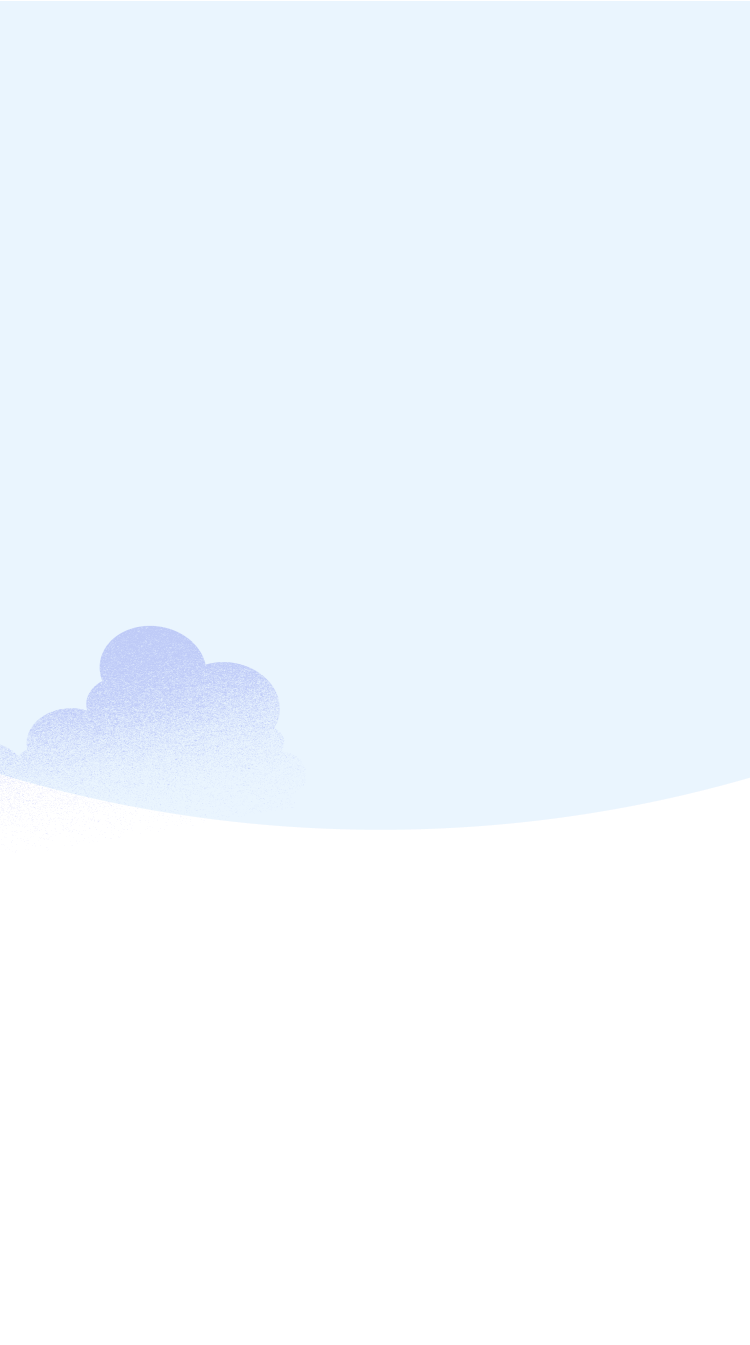
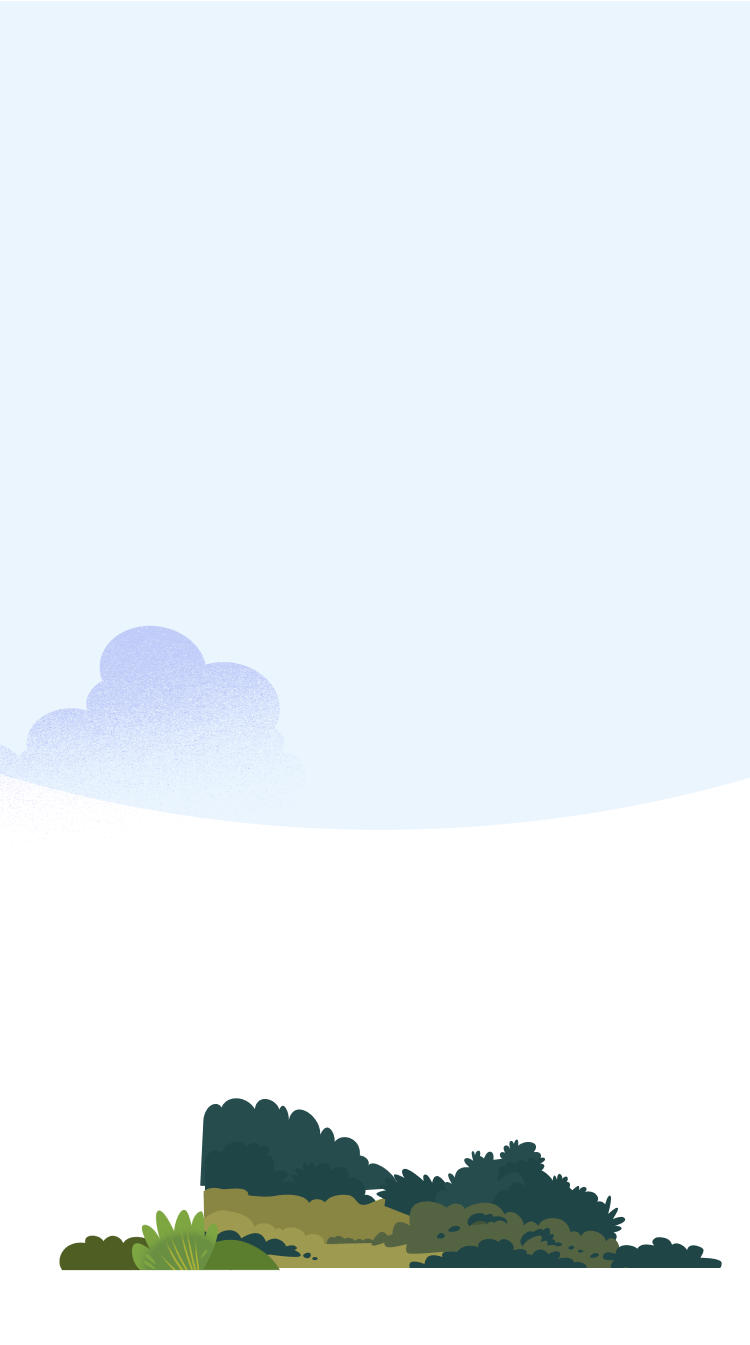
Tablet bug fixes;

Changed region(s): [[0.0613, 0.8119, 0.9507, 0.968]]

diff --git a/src/styles/_chapter-mobile.scss b/src/styles/_chapter-mobile.scss
@@ -89,79 +89,66 @@
           background-position: center bottom;
           background: url(../assets/images/chapters/chapter-mobile/mobile-slide-0-background-2x.png) center bottom no-repeat;
           background-size: cover;
-          height: 1000px;
+          height: 1200px;
         }
-        @media only screen and (min-device-width: 481px) and (max-device-width: 1024px) and (orientation:landscape) {
-
-          background: url(../assets/images/chapters/chapter-mobile/background-ipad-landscape.jpg) center bottom no-repeat;
-          background-size: cover;
-          height: 980px;
-        }
+        //@media only screen and (min-device-width: 481px) and (max-device-width: 1024px) and (orientation:landscape) {
+        //
+        //  background: url(../assets/images/chapters/chapter-mobile/background-ipad-landscape.jpg) center bottom no-repeat;
+        //  background-size: cover;
+        //  height: 980px;
+        //}
       }
       .phone-background {
         background: url(../assets/images/chapters/chapter-mobile/mobile-slide-0-phone.png) center center no-repeat;
         background-size: contain;
-        width: 100%;
-        height: 570px;
+        width: 55vw;
+        height: calc(50.4vw / (136/287));
         position: absolute;
-        bottom: 200px;
+        top: 50%;
+        left: 50%;
+        transform: translate(-50%, -50%);
         z-index: 2;
         pointer-events: none;
+        margin-top: 69px;
         @media (min-width: $screen-sm-min) {
-          bottom: 305px;
-        }
-        @media only screen and (min-device-width: 481px) and (max-device-width: 1024px) and (orientation:landscape) {
-          bottom: 225px;
+          margin-top: 2px;
         }
       }
       .phone-placeholder {
         background: url(../assets/images/chapters/chapter-mobile/mobile-slide-0-placeholder.png) center center no-repeat;
         background-size: contain;
-        height: 574px;
-        top: 285px;
+        width: 50vw;
+        height: calc(50vw / (136/287));
         position: absolute;
-        z-index: 1;
-        width: 272px;
+        top: 50%;
         left: 50%;
-        transform: translateX(-50%);
+        transform: translate(-50%, -50%);
+        z-index: 1;
         border-radius: 40px;
+        margin-top: 67px;
         @media (min-width: $screen-sm-min) {
-          top: 402px;
-        }
-        @media only screen and (min-device-width: 481px) and (max-device-width: 1024px) and (orientation:landscape) {
-          bottom: 225px;
+          margin-top: 0;
         }
       }
       .play-button {
         position: absolute;
-        top: 425px;
-        z-index: 1;
+        top: 50%;
         left: 50%;
-        transform: translateX(-50%);
-        @media (min-width: $screen-sm-min) {
-          bottom: 0;
-          top: 610px;
-        }
-        @media only screen and (min-device-width: 481px) and (max-device-width: 1024px) and (orientation:landscape) {
-          bottom: -745px;
-        }
+        transform: translate(-50%, -50%);
+        z-index: 1;
       }
       #step-1-video-mobile {
+        width: 50vw;
+        height: calc(50vw / (136/287));
         position: absolute;
-        z-index: 0;
-        top: 285px;
-        width: 262px;
-        height: auto;
+        top: 50%;
         left: 50%;
-        transform: translateX(-50%);
+        transform: translate(-50%, -50%);
+        z-index: 0;
         border-radius: 40px;
+        margin-top: 68px;
         @media (min-width: $screen-sm-min) {
-          top: initial;
-          bottom: 305px;
-          left: 50.5%;
-        }
-        @media only screen and (min-device-width: 481px) and (max-device-width: 1024px) and (orientation:landscape) {
-          bottom: 227px;
+          margin-top: 1px;
         }
       }
       .slide-intro {
